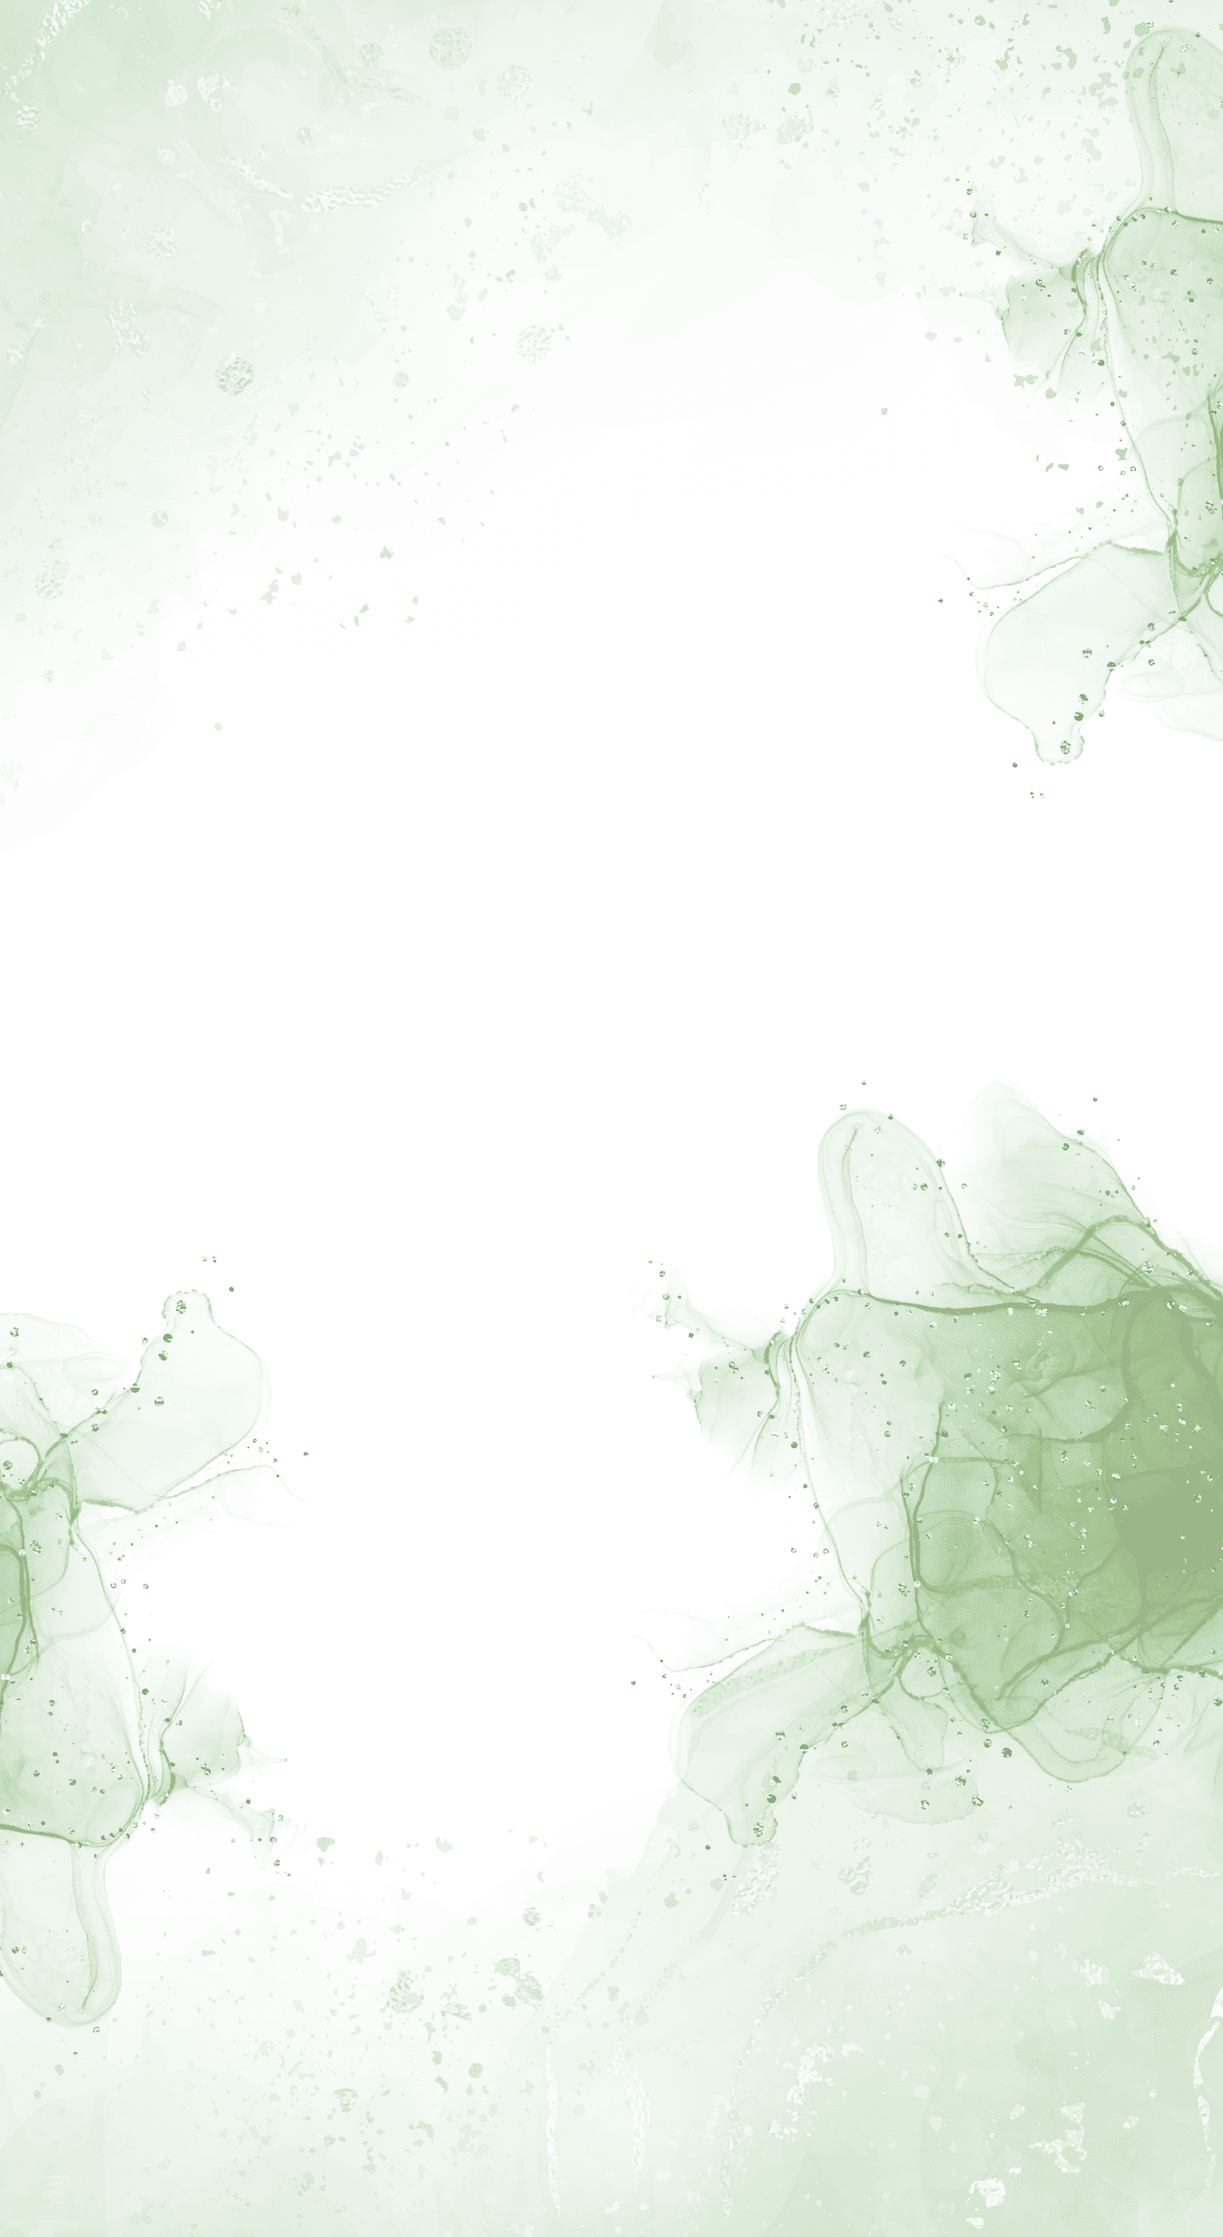
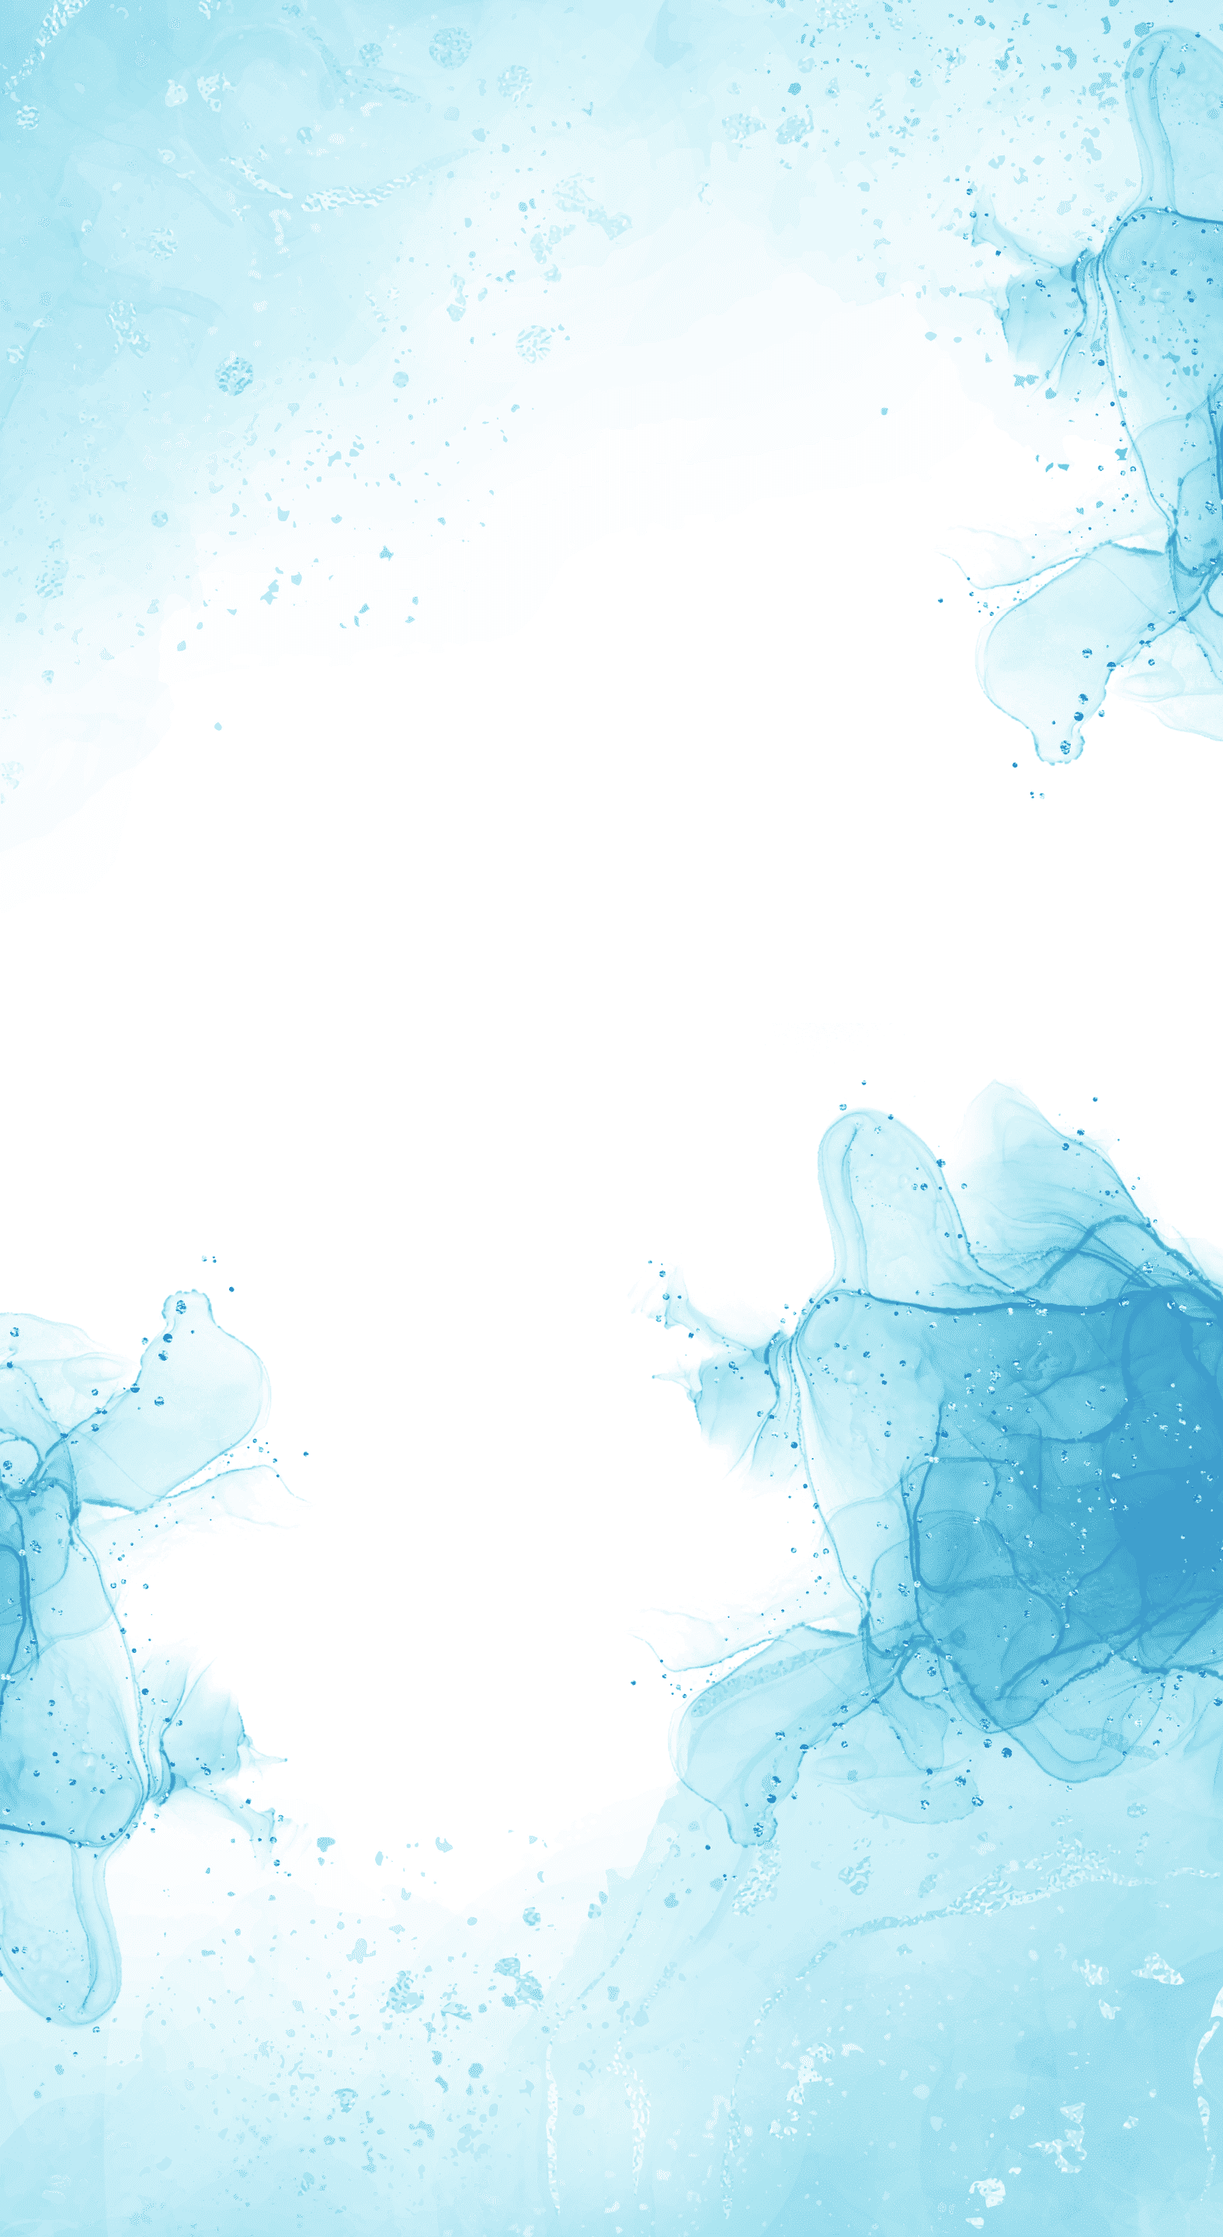
s
s

diff --git a/post-196841.css b/post-196841.css
@@ -300,7 +300,7 @@ body.rtl .elementor-196841 .elementor-element.elementor-element-e6049bc {
 
 .elementor-196841 .elementor-element.elementor-element-cb68c69 {
 	font-family: "Imperial Script", Sans-serif;
-	color: #304123ff;
+	color: #469FA7;
 }
 
 .elementor-196841 .elementor-element.elementor-element-244df4a {
@@ -318,7 +318,7 @@ body.rtl .elementor-196841 .elementor-element.elementor-element-e6049bc {
 
 .elementor-196841 .elementor-element.elementor-element-c87e938 {
 	font-family: "Imperial Script", Sans-serif;
-	color: #304123ff;
+	color: #469FA7;
 }
 
 .elementor-196841 .elementor-element.elementor-element-4c14635 {
@@ -328,7 +328,7 @@ body.rtl .elementor-196841 .elementor-element.elementor-element-e6049bc {
 
 .elementor-196841 .elementor-element.elementor-element-61f819c {
 	font-family: "Imperial Script", Sans-serif;
-	color: #304123ff;
+	color: #469FA7;
 }
 
 .elementor-196841 .elementor-element.elementor-element-e0f0f79 {
@@ -406,7 +406,7 @@ body.rtl .elementor-196841 .elementor-element.elementor-element-4cf13b9 {
 
 .elementor-196841 .elementor-element.elementor-element-1dd6c3d>.elementor-element-populated {
 	border-style: double;
-	border-color: #253b14ff;
+	border-color: #479EA7;
 	transition: background 0.3s, border 0.3s, border-radius 0.3s, box-shadow 0.3s;
 	margin: 0% 5% 0% 0%;
 	--e-column-margin-right: 5%;
@@ -458,18 +458,18 @@ body.rtl .elementor-196841 .elementor-element.elementor-element-5bf2233 {
 }
 
 .elementor-196841 .elementor-element.elementor-element-f138a45.elementor-view-stacked .elementor-icon {
-	background-color: #304123ff;
+	background-color: #469FA7;
 }
 
 .elementor-196841 .elementor-element.elementor-element-f138a45.elementor-view-framed .elementor-icon,
 .elementor-196841 .elementor-element.elementor-element-f138a45.elementor-view-default .elementor-icon {
-	color: #304123ff;
-	border-color: #304123ff;
+	color: #469FA7;
+	border-color: #469FA7;
 }
 
 .elementor-196841 .elementor-element.elementor-element-f138a45.elementor-view-framed .elementor-icon,
 .elementor-196841 .elementor-element.elementor-element-f138a45.elementor-view-default .elementor-icon svg {
-	fill: #304123ff;
+	fill: #469FA7;
 }
 
 .elementor-196841 .elementor-element.elementor-element-54514a4 .elementor-icon-wrapper {
@@ -477,18 +477,18 @@ body.rtl .elementor-196841 .elementor-element.elementor-element-5bf2233 {
 }
 
 .elementor-196841 .elementor-element.elementor-element-54514a4.elementor-view-stacked .elementor-icon {
-	background-color: #304123ff;
+	background-color: #469FA7;
 }
 
 .elementor-196841 .elementor-element.elementor-element-54514a4.elementor-view-framed .elementor-icon,
 .elementor-196841 .elementor-element.elementor-element-54514a4.elementor-view-default .elementor-icon {
-	color: #304123ff;
-	border-color: #304123ff;
+	color: #469FA7;
+	border-color: #469FA7;
 }
 
 .elementor-196841 .elementor-element.elementor-element-54514a4.elementor-view-framed .elementor-icon,
 .elementor-196841 .elementor-element.elementor-element-54514a4.elementor-view-default .elementor-icon svg {
-	fill: #304123ff;
+	fill: #469FA7;
 }
 
 .elementor-196841 .elementor-element.elementor-element-8e4b465 {
@@ -567,7 +567,7 @@ body.rtl .elementor-196841 .elementor-element.elementor-element-5bf2233 {
 
 .elementor-196841 .elementor-element.elementor-element-0d2dd2a>.elementor-element-populated {
 	border-style: double;
-	border-color: #253b14ff;
+	border-color: #479EA7;
 	transition: background 0.3s, border 0.3s, border-radius 0.3s, box-shadow 0.3s;
 	margin: 0% 5% 0% 0%;
 	--e-column-margin-right: 5%;
@@ -602,18 +602,18 @@ body.rtl .elementor-196841 .elementor-element.elementor-element-5bf2233 {
 }
 
 .elementor-196841 .elementor-element.elementor-element-e3d7702.elementor-view-stacked .elementor-icon {
-	background-color: #304123ff;
+	background-color: #469FA7;
 }
 
 .elementor-196841 .elementor-element.elementor-element-e3d7702.elementor-view-framed .elementor-icon,
 .elementor-196841 .elementor-element.elementor-element-e3d7702.elementor-view-default .elementor-icon {
-	color: #304123ff;
-	border-color: #304123ff;
+	color: #469FA7;
+	border-color: #469FA7;
 }
 
 .elementor-196841 .elementor-element.elementor-element-e3d7702.elementor-view-framed .elementor-icon,
 .elementor-196841 .elementor-element.elementor-element-e3d7702.elementor-view-default .elementor-icon svg {
-	fill: #304123ff;
+	fill: #469FA7;
 }
 
 .elementor-196841 .elementor-element.elementor-element-5322859 .elementor-icon-wrapper {
@@ -621,18 +621,18 @@ body.rtl .elementor-196841 .elementor-element.elementor-element-5bf2233 {
 }
 
 .elementor-196841 .elementor-element.elementor-element-5322859.elementor-view-stacked .elementor-icon {
-	background-color: #304123ff;
+	background-color: #469FA7;
 }
 
 .elementor-196841 .elementor-element.elementor-element-5322859.elementor-view-framed .elementor-icon,
 .elementor-196841 .elementor-element.elementor-element-5322859.elementor-view-default .elementor-icon {
-	color: #304123ff;
-	border-color: #304123ff;
+	color: #469FA7;
+	border-color: #469FA7;
 }
 
 .elementor-196841 .elementor-element.elementor-element-5322859.elementor-view-framed .elementor-icon,
 .elementor-196841 .elementor-element.elementor-element-5322859.elementor-view-default .elementor-icon svg {
-	fill: #304123ff;
+	fill: #469FA7;
 }
 
 .elementor-196841 .elementor-element.elementor-element-aa36dc3 {
@@ -1044,7 +1044,7 @@ body.rtl .elementor-196841 .elementor-element.elementor-element-faf5988 {
 
 .elementor-196841 .elementor-element.elementor-element-a4af366>.elementor-element-populated {
 	border-style: double;
-	border-color: #253b14ff;
+	border-color: #479EA7;
 	transition: background 0.3s, border 0s, border-radius 0s, box-shadow 0s;
 }
 
@@ -1077,7 +1077,7 @@ body.rtl .elementor-196841 .elementor-element.elementor-element-35ce1e9 {
 	text-align: center;
 	font-family: "Imperial Script", Sans-serif;
 	font-size: 35px;
-	color: #253b14ff;
+	color: #479EA7;
 }
 
 .elementor-196841 .elementor-element.elementor-element-d4de953>.elementor-widget-container {
@@ -1100,7 +1100,7 @@ body.rtl .elementor-196841 .elementor-element.elementor-element-35ce1e9 {
 	text-align: center;
 	font-family: "Send Flowers", Sans-serif;
 	font-size: 30px;
-	color: #253b14ff;
+	color: #479EA7;
 }
 
 .elementor-196841 .elementor-element.elementor-element-6639c09>.elementor-widget-container {
@@ -1357,8 +1357,8 @@ body.rtl .elementor-196841 .elementor-element.elementor-element-fb9dc17 {
 	--display: flex;
 	border-style: double;
 	--border-style: double;
-	border-color: #253b14ff;
-	--border-color: #253b14ff;
+	border-color: #479EA7;
+	--border-color: #479EA7;
 }
 
 .elementor-196841 .elementor-element.elementor-element-7e4857c:not(.elementor-motion-effects-element-type-background),
@@ -1597,7 +1597,7 @@ body.rtl .elementor-196841 .elementor-element.elementor-element-1502b95 .element
 .elementor-196841 .elementor-element.elementor-element-c3b4723>.elementor-element-populated {
 	border-style: double;
 	border-width: 5px 5px 5px 5px;
-	border-color: #253b14ff;
+	border-color: #479EA7;
 	transition: background 0.3s, border 0s, border-radius 0s, box-shadow 0s;
 	margin: 50px 0px 50px 0px;
 	--e-column-margin-right: 0px;
@@ -1617,18 +1617,18 @@ body.rtl .elementor-196841 .elementor-element.elementor-element-1502b95 .element
 }
 
 .elementor-196841 .elementor-element.elementor-element-3bfc583.elementor-view-stacked .elementor-icon {
-	background-color: #253b14ff;
+	background-color: #479EA7;
 }
 
 .elementor-196841 .elementor-element.elementor-element-3bfc583.elementor-view-framed .elementor-icon,
 .elementor-196841 .elementor-element.elementor-element-3bfc583.elementor-view-default .elementor-icon {
-	color: #253b14ff;
-	border-color: #253b14ff;
+	color: #479EA7;
+	border-color: #479EA7;
 }
 
 .elementor-196841 .elementor-element.elementor-element-3bfc583.elementor-view-framed .elementor-icon,
 .elementor-196841 .elementor-element.elementor-element-3bfc583.elementor-view-default .elementor-icon svg {
-	fill: #253b14ff;
+	fill: #479EA7;
 }
 
 .elementor-196841 .elementor-element.elementor-element-3bfc583 .elementor-icon {
@@ -1697,18 +1697,18 @@ body.rtl .elementor-196841 .elementor-element.elementor-element-1502b95 .element
 }
 
 .elementor-196841 .elementor-element.elementor-element-7b75bdb.elementor-view-stacked .elementor-icon {
-	background-color: #253b14ff;
+	background-color: #479EA7;
 }
 
 .elementor-196841 .elementor-element.elementor-element-7b75bdb.elementor-view-framed .elementor-icon,
 .elementor-196841 .elementor-element.elementor-element-7b75bdb.elementor-view-default .elementor-icon {
-	color: #253b14ff;
-	border-color: #253b14ff;
+	color: #479EA7;
+	border-color: #479EA7;
 }
 
 .elementor-196841 .elementor-element.elementor-element-7b75bdb.elementor-view-framed .elementor-icon,
 .elementor-196841 .elementor-element.elementor-element-7b75bdb.elementor-view-default .elementor-icon svg {
-	fill: #253b14ff;
+	fill: #479EA7;
 }
 
 .elementor-196841 .elementor-element.elementor-element-7b75bdb .elementor-icon {
@@ -3416,22 +3416,22 @@ body.rtl .elementor-196841 .elementor-element.elementor-element-1502b95 .element
   -webkit-tap-highlight-color: transparent; /* quita efecto de resaltado al tocar (iOS/Android) */
 }
 .sobre {
-	fill: #667C54;
+	fill: #2B9DA8;
 	stroke: #1d1f1b;
 	stroke-width: .9px;
 
 }
 
 .filtro_olivo {
-	filter: sepia(0.25) saturate(1.3) hue-rotate(50deg) contrast(1.08) brightness(0.95);
+    filter: sepia(1) saturate(2.3) hue-rotate(153deg) contrast(1.08) brightness(0.95);
 }
 
 .filtro_plata {
-  filter: saturate(0.2) brightness(1.0) contrast(1.2) hue-rotate(190deg);
+  filter: saturate(200%) hue-rotate(200deg) brightness(1.05) contrast(1.1);
 }
 
 .botonFijo {
-	color: #667C54;
+	color: #2a6075;
 	background-color: #F6F5F4;
 	position: fixed;
 	bottom: 20px;
@@ -3580,7 +3580,7 @@ body.rtl .elementor-196841 .elementor-element.elementor-element-1502b95 .element
 #nombre-invitado {
 	font-family: 'PT serif', italianna;
 	/* Cambia 'Arial' por la fuente que prefieras */
-	color: #253b14ff;
+	color: #479EA7;
 	font-size: 16px !important;
 }
 
@@ -3598,10 +3598,10 @@ body.rtl .elementor-196841 .elementor-element.elementor-element-1502b95 .element
 /* Estilo del boton de envío */
 .form-container button {
 	font-family: 'PT Serif';
-	background-color: #253b14ff;
+	background-color: #479EA7;
 	/* Cambia el color a tu preferencia */
 	color: #fff;
-	border: 1.5px solid #253b14ff;
+	border: 1.5px solid #479EA7;
 	padding: 12px 99px 12px 99px;
 	font-size: .9em !important;
 	cursor: pointer;
@@ -3634,7 +3634,7 @@ body.rtl .elementor-196841 .elementor-element.elementor-element-1502b95 .element
 }
 
 .counter-container button:hover {
-	background-color: #253b14ff;
+	background-color: #479EA7;
 	color: white;
 }
 

diff --git a/index.html b/index.html
@@ -94,12 +94,12 @@
                   </script>
                   <div id="divSobre">
                      <!-- SVG para el sobre 1 --> 
-                     <svg id="sobre1" xmlns="http://www.w3.org/2000/svg" viewBox="0 0 320 650" width="100%" height="100%">
+                     <svg class="XXX" id="sobre1" xmlns="http://www.w3.org/2000/svg" viewBox="0 0 320 650" width="100%" height="100%">
                         <!-- Contenido del sobre 1 --> 
                         <polygon id="Base" class="sobre" stroke-linejoin="round" points="321.7 540.8 0 540.8 0 0 321.7 0 181.4 202.1 236.5 270.8 181.4 337.8 321.7 540.8"></polygon>
                      </svg>
                      <!-- SVG para el sobre 2 --> 
-                     <svg id="sobre2" xmlns="http://www.w3.org/2000/svg" viewBox="0 0 320 650" width="100%" height="100%">
+                     <svg class="XXX" id="sobre2" xmlns="http://www.w3.org/2000/svg" viewBox="0 0 320 650" width="100%" height="100%">
                         <!-- Contenido del sobre 2 --> 
                         <path id="Tapa" class="sobre" stroke="#FFF" stroke-linejoin="round" d="M176.2,540.8h47.8V0h-47.8L2.3,262.7c-3,4.5-3,10.4,0,14.9l173.9,263.2Z"></path>
                      </svg>
@@ -340,7 +340,7 @@ src="1-1.png" class="filtro_plata attachment-full size-full wp-image-112438" alt
 
 
 <div class="elementor-widget-container"> 
-<img width="1024" height="650" src="ceremonia.webp" class="filtro_plata">
+<img width="1024" height="650" src="ceremonia.webp" class="filtro_olivo">
 </div>
                                  </div>
                                  <div class="elementor-element elementor-element-6ae587b nor elementor-widget elementor-widget-text-editor animated fadeInRight" data-id="6ae587b" data-element_type="widget" data-settings="{&quot;_animation_mobile&quot;:&quot;fadeInRight&quot;}" data-widget_type="text-editor.default">
@@ -405,7 +405,7 @@ src="1-1.png" class="filtro_plata attachment-full size-full wp-image-112438" alt
                               <div class="elementor-widget-wrap elementor-element-populated">
                                  <div class="elementor-element elementor-element-0dfb130 elementor-widget elementor-widget-image animated zoomIn" data-id="0dfb130" data-element_type="widget" data-settings="{&quot;_animation_mobile&quot;:&quot;zoomIn&quot;}" data-widget_type="image.default">
 <div class="elementor-widget-container"> 
-<img  width="1024" height="652" src="recepcion.webp" class="filtro_plata">
+<img  width="1024" height="652" src="recepcion.webp" class="filtro_olivo">
 </div>
                                  </div>
                                  <div class="elementor-element elementor-element-8d82671 nor elementor-widget elementor-widget-text-editor animated fadeInRight" data-id="8d82671" data-element_type="widget" data-settings="{&quot;_animation_mobile&quot;:&quot;fadeInRight&quot;}" data-widget_type="text-editor.default">
@@ -516,33 +516,20 @@ src="1-1.png" class="filtro_plata attachment-full size-full wp-image-112438" alt
                      <section style="background-image: url(foto8.jpg);background-position: center"
                      class="has_eae_slider elementor-section elementor-top-section elementor-element elementor-element-153ffdd elementor-section-height-min-height elementor-hidden-desktop elementor-section-boxed elementor-section-height-default elementor-section-items-middle" data-eae-slider="42233" data-id="153ffdd" data-element_type="section" data-settings="{&quot;background_background&quot;:&quot;classic&quot;,&quot;motion_fx_motion_fx_scrolling&quot;:&quot;yes&quot;,&quot;motion_fx_devices&quot;:[&quot;desktop&quot;,&quot;tablet&quot;,&quot;mobile&quot;]}">
                         <div class="elementor-background-overlay"></div>
+
+                        
                         <div class="elementor-container elementor-column-gap-default">
+
+                            <img src="fofo.png" class="width: 100%">
                            <div class="has_eae_slider elementor-column elementor-col-50 elementor-top-column elementor-element elementor-element-0394238 animated fadeIn" data-eae-slider="40790" data-id="0394238" data-element_type="column" data-settings="{&quot;animation_mobile&quot;:&quot;fadeIn&quot;}">
                               <div class="elementor-widget-wrap elementor-element-populated">
-                               
+                                 
 
-                                 <div class="elementor-element elementor-element-b798b8d normal-portada elementor-widget elementor-widget-text-editor animated fadeIn" data-id="b798b8d" data-element_type="widget" data-settings="{&quot;_animation_mobile&quot;:&quot;fadeIn&quot;}" data-widget_type="text-editor.default">
-                                    <div class="elementor-widget-container font_quattrocento"> HOMBRES.</div>
-                                 </div>
-                                 <div class="elementor-element elementor-element-a53b779 normal-portada elementor-widget elementor-widget-text-editor animated fadeIn" data-id="a53b779" data-element_type="widget" data-settings="{&quot;_animation_mobile&quot;:&quot;fadeIn&quot;}" data-widget_type="text-editor.default">
-                                    <div class="elementor-widget-container font_quattrocento"> <strong>Traje Formal</strong></div>
-                                 </div>
-
-
-                                 <div class="elementor-element elementor-element-b798b8d normal-portada elementor-widget elementor-widget-text-editor animated fadeIn" data-id="b798b8d" data-element_type="widget" data-settings="{&quot;_animation_mobile&quot;:&quot;fadeIn&quot;}" data-widget_type="text-editor.default">
-                                    <div class="elementor-widget-container font_quattrocento"> Mujeres</div>
-                                 </div>
-                                 <div class="elementor-element elementor-element-a53b779 normal-portada elementor-widget elementor-widget-text-editor animated fadeIn" data-id="a53b779" data-element_type="widget" data-settings="{&quot;_animation_mobile&quot;:&quot;fadeIn&quot;}" data-widget_type="text-editor.default">
-                                    <div class="elementor-widget-container font_quattrocento"> <strong>Vestidos Largos</strong></div>
-                                 </div>
-
-
-
-
+                                
                                  
                                  
                                  <div class="elementor-element elementor-element-2eb5b32 normal-portada elementor-widget elementor-widget-text-editor animated fadeIn" data-id="2eb5b32" data-element_type="widget" data-settings="{&quot;_animation_mobile&quot;:&quot;fadeIn&quot;}" data-widget_type="text-editor.default">
-                                    <div class="elementor-widget-container font_quattrocento"> Se reserva el color <strong>verde </strong>para la quinceañera.</div>
+                                    <div class="elementor-widget-container font_quattrocento"> Se reserva el color <strong>Aqua </strong>para la quinceañera.</div>
                                  </div>
 
                                  
